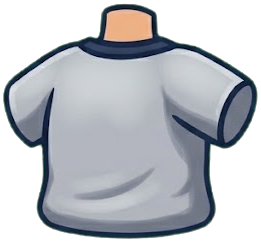
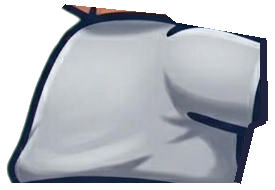
타자 캐릭터: 파츠 크기를 자세 그림에 맞춤 (몸통도 자세 그림에서, 팔·장갑·배트 배율)

diff --git a/scripts/cut_batter_parts.py b/scripts/cut_batter_parts.py
@@ -8,7 +8,7 @@
 하는 일
 1. 초록 배경을 투명하게 뺀다 (초록이 빨강·파랑보다 튀는 만큼 투명)
 2. 서로 떨어진 덩어리를 조각으로 나눈다 (순서는 위→아래, 왼쪽→오른쪽으로 고정)
-3. 하체는 자세 그림(stance_reference.png)에서 벨트 아래를 통째로 잘라 쓴다
+3. 몸통과 하체는 자세 그림(stance_reference.png)에서 따낸다 — 시트의 조각은 크기·각도가 자세 그림과 달랐다
 4. 팔은 위팔·아래팔이 붙어 나와서 남색 소매 끝에서 자른다. 아래팔의 잘린 끝에는
    같은 살색·테두리로 둥근 마개를 그려, 팔꿈치에서 돌려도 틈이 보이지 않게 한다
 """
@@ -22,8 +22,8 @@ OUT = Path(__file__).resolve().parent.parent / "godot/art/characters/batter"
 SRC = OUT / "source"
 PAD = 4
 
-# parts_sheet.png 에서 나오는 조각 번호 → 파일 이름 (안 쓰는 조각은 뺀다: 붙은 팔 2개, 골반, 다리 4개 — 하체는 자세 그림에서 통째로 가져온다)
-SHEET_PARTS = {0: "head", 1: "torso", 5: "glove_top", 6: "glove_bottom", 7: "bat"}
+# parts_sheet.png 에서 나오는 조각 번호 → 파일 이름 (안 쓰는 조각은 뺀다: 몸통, 붙은 팔 2개, 골반, 다리 4개 — 몸통·하체는 자세 그림에서 가져온다)
+SHEET_PARTS = {0: "head", 5: "glove_top", 6: "glove_bottom", 7: "bat"}
 # arms_sheet.png 의 두 번째 조각(소매 달린 팔)을 자르는 높이 = 남색 소매가 끝나는 줄
 ARM_PIECE = 0
 ARM_CUT_Y = 292
@@ -31,6 +31,13 @@ ARM_CUT_Y = 292
 # (이 선 위쪽은 상의·팔이라 지운다)
 LOWER_BOX = (360, 600, 780, 890)
 LOWER_BELT_LINE = ((60, 12), (330, 30))
+# stance_reference.png 에서 몸통(등 + 가까운 쪽 소매)을 따내는 상자와 테두리 (그림 좌표).
+# 위는 머리에, 오른쪽은 팔에 가려지는 자리에서 끊는다
+TORSO_BOX = (425, 440, 700, 630)
+TORSO_OUTLINE = [(430, 622), (430, 580), (440, 525), (462, 470), (490, 444), (590, 454), (600, 462), (690, 478),
+                 (692, 560), (676, 566), (662, 622)]
+# 오른쪽(소매 끝)과 오른쪽 아래는 그림에서 팔에 가려 테두리가 없다 — 이 선을 따라 테두리를 그려 넣는다
+TORSO_ADDED_EDGE = [(688, 480), (689, 560), (676, 566), (662, 622)]
 
 
 def keyed(path: Path) -> np.ndarray:
@@ -88,6 +95,20 @@ def main() -> None:
     line_y = ay + (by - ay) * (xs - ax) / (bx - ax)
     lower[..., 3] = np.where(ys < line_y, 0, lower[..., 3])
     Image.fromarray(lower).save(OUT / "lower_body.png")
+
+    # 몸통: 자세 그림의 등을 테두리대로 따낸다 (하체와 같은 그림이라 크기·각도가 그대로 맞는다)
+    x0, y0, x1, y1 = TORSO_BOX
+    stance = keyed(SRC / "stance_reference.png")
+    mask = Image.new("L", (stance.shape[1], stance.shape[0]), 0)
+    ImageDraw.Draw(mask).polygon(TORSO_OUTLINE, fill=255)
+    torso = stance.copy()
+    torso[..., 3] = np.minimum(torso[..., 3], np.asarray(mask))
+    torso_image = Image.fromarray(torso)
+    # 테두리 색: 몸통 왼쪽 가장자리 줄에서 테두리 한가운데쯤
+    first = int(np.argmax(stance[540, :, 3] > 250))
+    edge_color = tuple(int(v) for v in stance[540, first + 3, :3]) + (255,)
+    ImageDraw.Draw(torso_image).line(TORSO_ADDED_EDGE, fill=edge_color, width=7, joint="curve")
+    torso_image.crop((x0, y0, x1, y1)).save(OUT / "torso.png")
 
     for path in sorted(OUT.glob("*.png")):
         print(path.name, Image.open(path).size)

diff --git a/licenses/assets.md b/licenses/assets.md
@@ -18,7 +18,7 @@ CLAUDE.md 원칙 6: 외부·AI 생성 그림·소리를 넣을 때는 여기 기
 
 | **(임시)** 배경 1장: 교실 | `godot/art/backgrounds/classroom.png` | 유저가 준 그림 (2026-10-12), 그대로 넣음. 오른쪽 아래에 Gemini 표시(✦)가 있어 **Google Gemini** 생성으로 적는다 — 다른 도구면 고친다 | Gemini 이용 약관을 따른다 | **확인 필요** (위와 같음) |
 
-| 타자 캐릭터 파츠 8장 + 원본 시트 3장 | `godot/art/characters/batter/*.png`, `source/` | 유저가 **Google Gemini** 로 생성 (2026-10-12, 요금제는 유저 말로 'Gemini Plus'). 초록 배경을 빼고 조각으로 잘랐다 (`scripts/cut_batter_parts.py`). 하체는 자세 그림에서 벨트 아래를 통째로 잘랐다. 팔은 위팔·아래팔이 붙어 나와 소매 끝에서 자르고, 아래팔의 잘린 끝에 같은 색으로 둥근 마개를 그려 넣었다. 원본 오른쪽 아래의 Gemini 표시(✦)는 어느 파츠에도 들어가지 않았다 (원본 시트에는 남아 있다) | Gemini 이용 약관을 따른다 | **확인 필요** (위와 같음) |
+| 타자 캐릭터 파츠 8장 + 원본 시트 3장 | `godot/art/characters/batter/*.png`, `source/` | 유저가 **Google Gemini** 로 생성 (2026-10-12, 요금제는 유저 말로 'Gemini Plus'). 초록 배경을 빼고 조각으로 잘랐다 (`scripts/cut_batter_parts.py`). 몸통과 하체는 자세 그림에서 따냈다 (몸통은 팔에 가려 테두리가 없는 오른쪽 가장자리에 같은 색 선을 그려 넣었다). 팔은 위팔·아래팔이 붙어 나와 소매 끝에서 자르고, 아래팔의 잘린 끝에 같은 색으로 둥근 마개를 그려 넣었다. 원본 오른쪽 아래의 Gemini 표시(✦)는 어느 파츠에도 들어가지 않았다 (원본 시트에는 남아 있다) | Gemini 이용 약관을 따른다 | **확인 필요** (위와 같음) |
 
 AI 생성 에셋: 위 인물 일러스트 11장, 배경 6장, 타자 캐릭터 파츠 (Google Gemini).
 

diff --git a/docs/dev-log.md b/docs/dev-log.md
@@ -6333,3 +6333,12 @@ Gemini 가 위팔과 아래팔을 두 번 다 붙여서 그렸다. 남색 소매
   - 배트 대기 각도 −30° → −18° (`batting_view.gd` `_bat_angle_deg`). 스윙이 도는 각도가 180° → 168° 로 조금 줄었다. 시간은 그대로라 체감 차이는 거의 없다
   - 먼 팔(앞팔)의 어깨를 몸통 오른쪽 끝으로 옮겼다. 가슴 앞을 가로질러 오는 팔이라 뒤에서는 아래팔만 보인다
   - 파츠는 10장 → 8장 (머리·몸통·하체·위팔·아래팔·장갑 2·배트)
+- **"파츠 간 사이즈가 안 맞아" (유저)** → 조립한 그림과 자세 그림을 같은 배율로 나란히 놓고(`shots_batter` 의 `batter-stance.png`) 크기를 쟀다
+  - 원인: 파츠 시트의 조각은 자세 그림과 크기·각도가 달랐다. 시트의 몸통은 정면 뒷모습에 폭이 좁고, 팔·장갑·배트는 눈대중 배율이었다
+  - 몸통도 **자세 그림에서 따냈다** (`torso.png`). 하체와 같은 그림이라 크기와 틀어진 각도가 그대로 맞는다. 팔에 가려 테두리가 없는 오른쪽 가장자리에는 같은 색 선을 그려 넣었다
+  - 뼈·손 자리를 자세 그림의 좌표로 다시 쟀다 (원점 = 그 그림의 (550, 635)). 준비 자세로 조립하면 그 그림과 겹친다
+  - 배율: 팔 0.42 → 0.7, 장갑 0.95 → 1.13, 배트 1.2 → 1.45, 머리 1.5 그대로. 배트 대기 각도 −18° → −13°
+  - 팔은 몸통 **뒤**에 그린다. 소매는 몸통 그림에 있고, 팔은 그 밖으로 남색 밴드부터 나온다
+  - 배트가 길어져서, 맞는 순간 공이 배트 굵은 쪽에 오도록 길이를 0.6~1.6배로 맞춘다 (전에는 1~1.6배). 판정과는 무관한 그림 처리다
+  - 타자 가로 자리 `BATTER_X` 0.305 → 0.29 (손이 더 오른쪽으로 나가서)
+  - 남은 흠: 소매 끝과 남색 밴드가 만나는 자리가 자세 그림만큼 매끈하지 않다

diff --git a/godot/art/README.md b/godot/art/README.md
@@ -52,7 +52,7 @@
 | 파일 | 파츠 |
 |---|---|
 | `head.png` | 헬멧 쓴 머리 (목 포함) |
-| `torso.png` | 상의 (짧은 소매 포함) |
+| `torso.png` | 상의 (등 + 가까운 쪽 소매). 자세 그림에서 테두리를 따라 따냈다 |
 | `upper_arm.png` `forearm.png` | 위팔(소매) · 아래팔 — 두 팔이 같은 그림을 쓴다 |
 | `glove_top.png` `glove_bottom.png` | 배트를 쥔 장갑 낀 주먹 |
 | `lower_body.png` | 하체 통짜 (벨트 + 굽힌 두 다리 + 스파이크). 자세 그림에서 벨트 아래를 그대로 잘랐다 |
